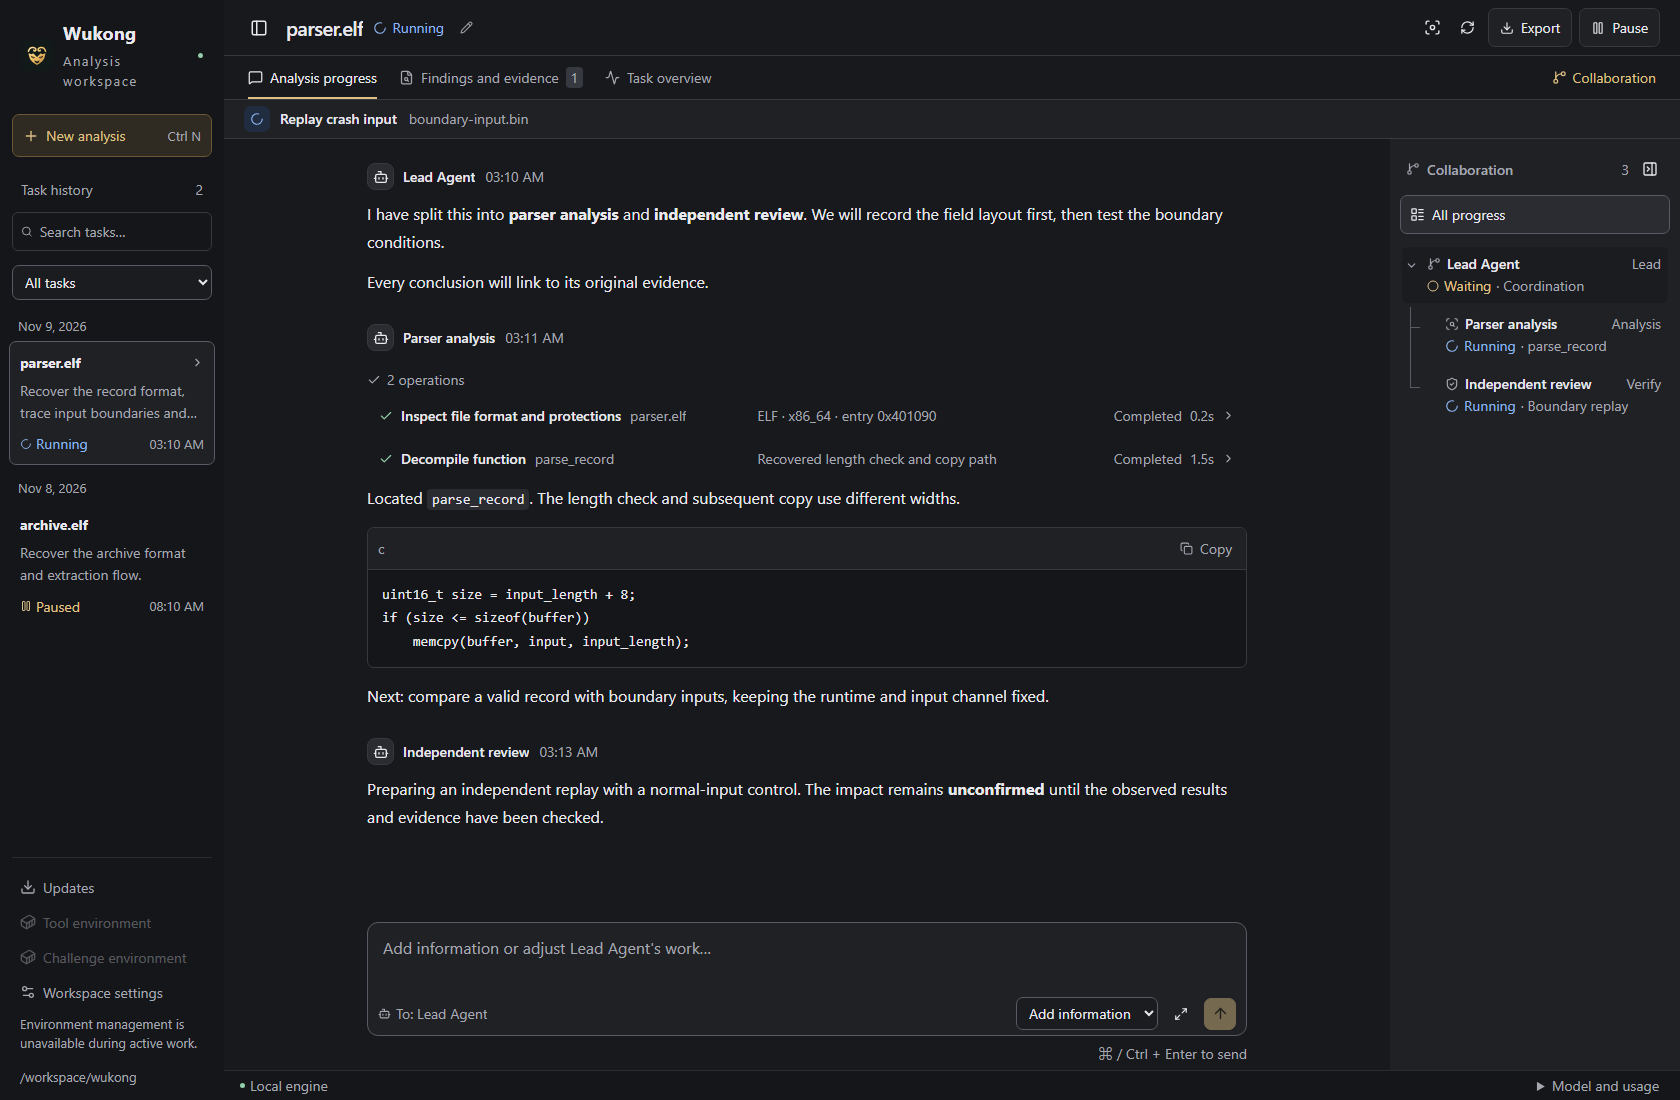
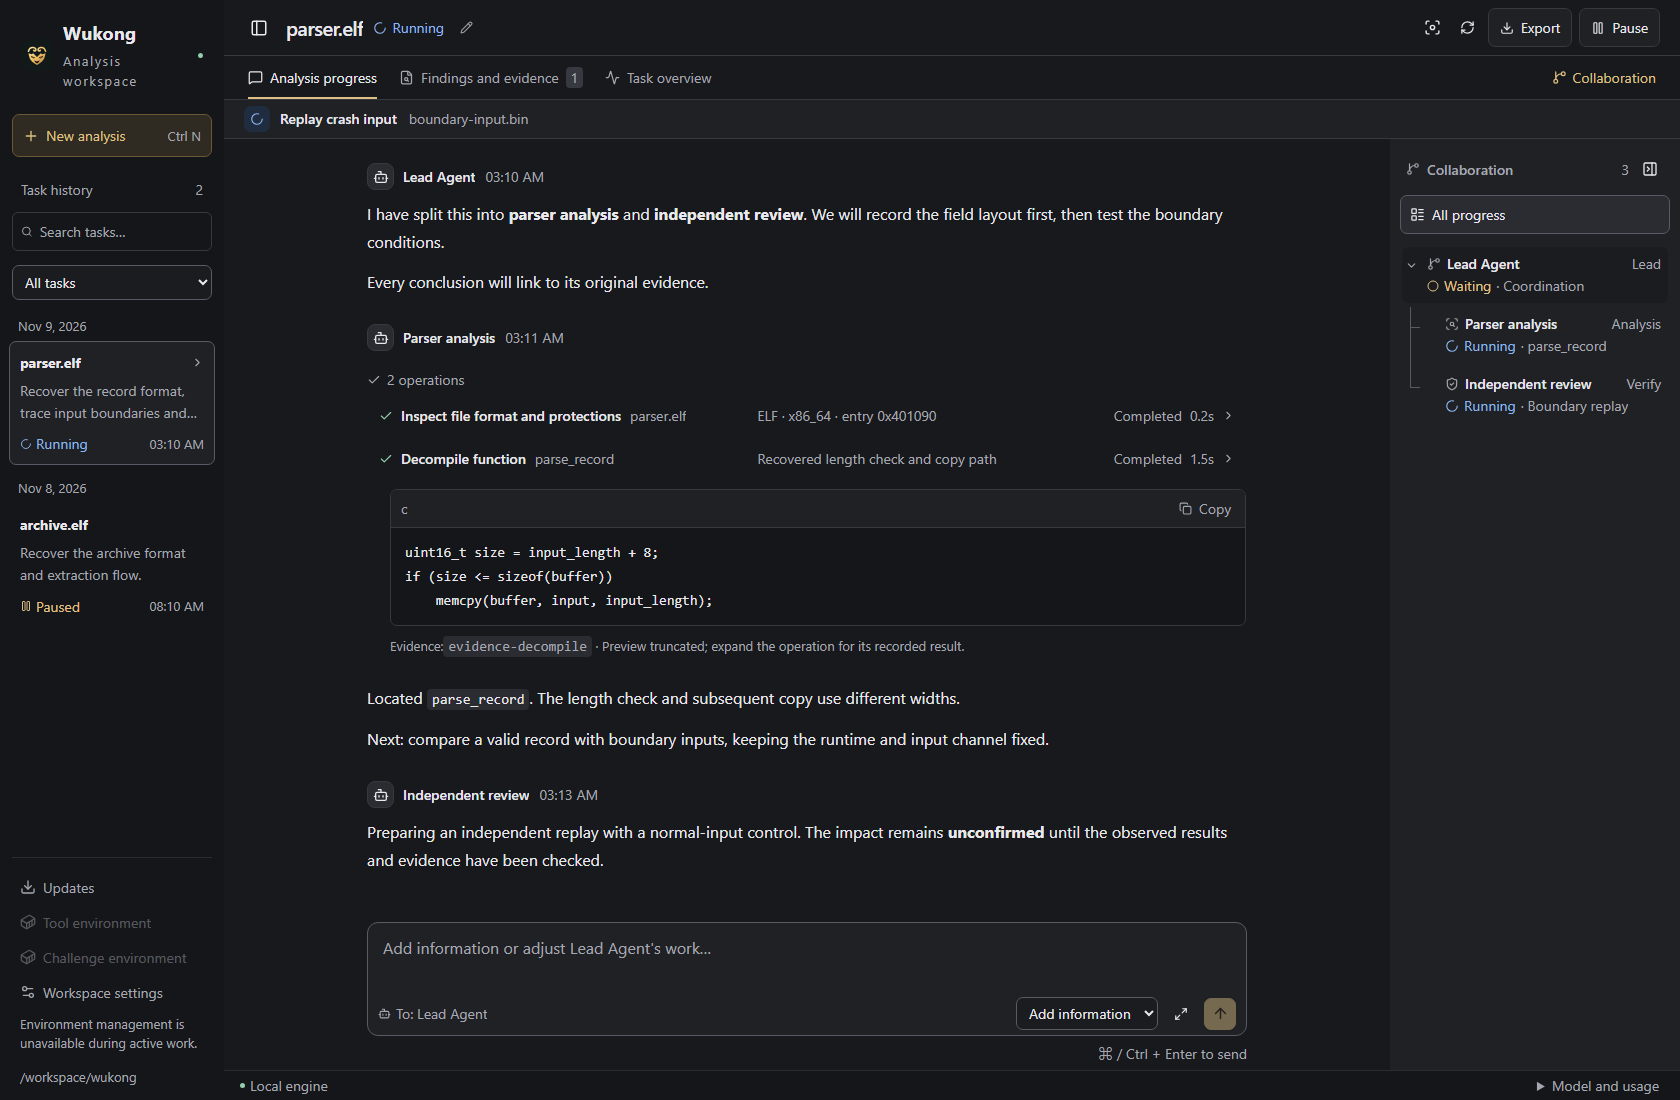
test(desktop): validate backend progress and capture runtime workspace views

Changed region(s): [[0.2167, 0.4945, 0.7429, 0.8036], [0.2167, 0.4327, 0.5881, 0.4636], [0.7119, 0.4945, 0.7429, 0.5255]]

diff --git a/tests/cli_workflow.rs b/tests/cli_workflow.rs
@@ -162,7 +162,24 @@ async fn model_server() -> Result<(
                     request["messages"]
                 ),
             };
-            let response=json!({"id":format!("response-{role}-{turn}"),"object":"chat.completion","created":1,"model":"test-model","choices":[{"index":0,"message":{"role":"assistant","content":null,"tool_calls":calls},"finish_reason":"tool_calls"}],"usage":{"prompt_tokens":10,"completion_tokens":5,"total_tokens":15}}).to_string();
+            let narration = match (role, turn) {
+                ("root", 0) => {
+                    "I will identify the fixture and delegate static inspection. Each result will link to its recorded evidence."
+                }
+                ("root", 1) => {
+                    "Static inspection is running in the analysis agent. I am waiting for its report."
+                }
+                ("analyst", 0) => {
+                    "I am reading the exact target's ELF metadata before selecting further analysis methods."
+                }
+                ("analyst", 1) => {
+                    "The fixture metadata has been recorded. This test establishes static coverage only; it makes no dynamic impact claim."
+                }
+                _ => {
+                    "Static inspection is complete and the original evidence is linked. No independently verified vulnerability is claimed."
+                }
+            };
+            let response=json!({"id":format!("response-{role}-{turn}"),"object":"chat.completion","created":1,"model":"test-model","choices":[{"index":0,"message":{"role":"assistant","content":narration,"tool_calls":calls},"finish_reason":"tool_calls"}],"usage":{"prompt_tokens":10,"completion_tokens":5,"total_tokens":15}}).to_string();
             stream.write_all(format!("HTTP/1.1 200 OK\r\nContent-Type: application/json\r\nContent-Length: {}\r\nConnection: close\r\n\r\n{response}",response.len()).as_bytes()).await?;
         }
     });
@@ -320,6 +337,64 @@ async fn workflow(pause_then_resume: bool) -> Result<()> {
         calls.iter().all(|c| c.state == CallState::Completed),
         "tool errors in workflow"
     );
+    let desktop = wukong::desktop::service::Service::new(
+        config.clone(),
+        store.clone(),
+        Some(run.id.clone()),
+        Some(config_path),
+        None,
+    );
+    let envelope = desktop.read(wukong::desktop::workspace::WorkspaceRequest::default())?;
+    let data = envelope
+        .workspace
+        .data
+        .as_ref()
+        .context("desktop snapshot missing")?;
+    ensure!(
+        data.agents.len() == 2 && data.active_tools.is_empty(),
+        "desktop activity diverged from completed agents"
+    );
+    let replies = store.records::<PublicReply>(&run.id)?;
+    ensure!(
+        replies.len() == 5
+            && replies
+                .iter()
+                .all(|reply| reply.state == ReplyState::Complete),
+        "public text lost across real Rig/CLI execution"
+    );
+    ensure!(
+        replies
+            .iter()
+            .all(|reply| data.transcript.iter().any(|message| message.id == reply.id)),
+        "desktop transcript lost a public reply"
+    );
+    let inspect = data
+        .transcript
+        .iter()
+        .flat_map(|message| &message.content)
+        .find_map(|part| match part {
+            wukong::desktop::presentation::ChatPart::ToolCall {
+                tool_name, args, ..
+            } if tool_name == "binary_inspect" => Some(args),
+            _ => None,
+        })
+        .context("real binary inspection did not reach the desktop")?;
+    ensure!(
+        inspect["display"]["target"] == "sample.elf"
+            && inspect["display"]["evidence_id"].is_string(),
+        "tool target/evidence lost in presentation"
+    );
+    // Optional, disposable capture input. It contains the actual read DTO, not a hand-built UI fixture.
+    if !pause_then_resume && let Some(path) = std::env::var_os("WUKONG_CAPTURE_WORKSPACE") {
+        let capture = serde_json::to_vec_pretty(
+            &json!({"source":"scripted local provider; real CLI/Rig/SQLite/static inspection", "envelope":envelope,"calls":calls}),
+        )?;
+        ensure!(
+            !String::from_utf8_lossy(&capture).contains("not-a-real-secret"),
+            "credential leaked into capture"
+        );
+        fs::write(path, capture)?;
+    }
     let exported = report::export(&store, &run.id, &temp.path().join("bundle"))?;
     let verified = report::verify_bundle(&exported.output_dir)?;
     ensure!(

diff --git a/docs/development/maintenance.md b/docs/development/maintenance.md
@@ -118,3 +118,11 @@ node scripts/dev/capture-readme.mjs
 ```
 
 The script reuses frontend fixture structures with a bounded native-command adapter and writes `docs/assets/workspace.en-US.png` and `docs/assets/workspace.zh-CN.png`. Viewport, timezone and sample data are fixed; local configuration/credentials are not read. Failures, unhandled errors or horizontal overflow stop generation. Inspect both images for clipping, fonts, tool rows and the collaboration tree, then commit them with their README editions. Install a missing browser with `npx --no-install playwright install chromium`.
+
+To inspect the desktop projection of a real CLI execution, set `WUKONG_CAPTURE_WORKSPACE` to `target/runtime-workspace.json` and run `cargo test --locked --test cli_workflow cli_runs_dynamic_agents_real_rig_and_exports_evidence`. The test reuses its local scripted provider, real Rig scheduler, SQLite and static binary inspection; it does not call a paid model or execute the fixture. On Windows, use an MSVC developer shell and an isolated test `LOCALAPPDATA` directory. With the frontend server running, render that captured DTO:
+
+```sh
+node scripts/dev/capture-readme.mjs target/runtime-workspace.json
+```
+
+These diagnostic images go to `target/runtime-workspace/`, keeping the README's illustrative images separate. The adapter supplies desktop transport only: agents, text, tool outcomes, targets and evidence IDs come from the captured backend response. This acceptance establishes the CLI-to-desktop presentation path, not live-model reasoning quality or real Ghidra/debugger execution. Native streaming acceptance additionally holds an HTTP response open until a public partial reply can be read from the desktop snapshot; it checks final-message deduplication and excludes private reasoning.

diff --git a/docs/development/maintenance.zh-CN.md b/docs/development/maintenance.zh-CN.md
@@ -123,3 +123,11 @@ node scripts/dev/capture-readme.mjs
 ```
 
 脚本复用前端夹具结构，提供限定的原生命令适配器，生成 `docs/assets/workspace.en-US.png` 与 `docs/assets/workspace.zh-CN.png`。固定视口、时区和示例数据，不读取本机配置或凭据；失败、未处理错误或横向溢出会中止生成。逐张检查裁切、字体、工具行和协作树，再与对应 README 一起提交。首次缺少浏览器时运行 `npx --no-install playwright install chromium`。
+
+要检查真实 CLI 执行到桌面的投影，可将 `WUKONG_CAPTURE_WORKSPACE` 设为 `target/runtime-workspace.json`，运行 `cargo test --locked --test cli_workflow cli_runs_dynamic_agents_real_rig_and_exports_evidence`。测试复用本地脚本化 provider、真实 Rig 调度器、SQLite 和静态二进制检查，不调用付费模型，也不执行夹具。Windows 需使用 MSVC 开发者终端及隔离的测试 `LOCALAPPDATA` 目录。前端服务运行后，可渲染捕获的数据：
+
+```sh
+node scripts/dev/capture-readme.mjs target/runtime-workspace.json
+```
+
+这些诊断图片写入 `target/runtime-workspace/`，与 README 示例图片分开。适配器仅提供桌面传输接口；Agent、文本、工具结果、目标和证据 ID 均来自捕获的后端响应。此验收证明 CLI 到桌面的展示链路，不证明真实模型的推理质量，也不覆盖真实 Ghidra 或调试器执行。原生流式验收还会保持 HTTP 响应未结束，直到能从桌面快照读取公开的部分回复，并检查最终消息去重以及内部推理不进入展示。
